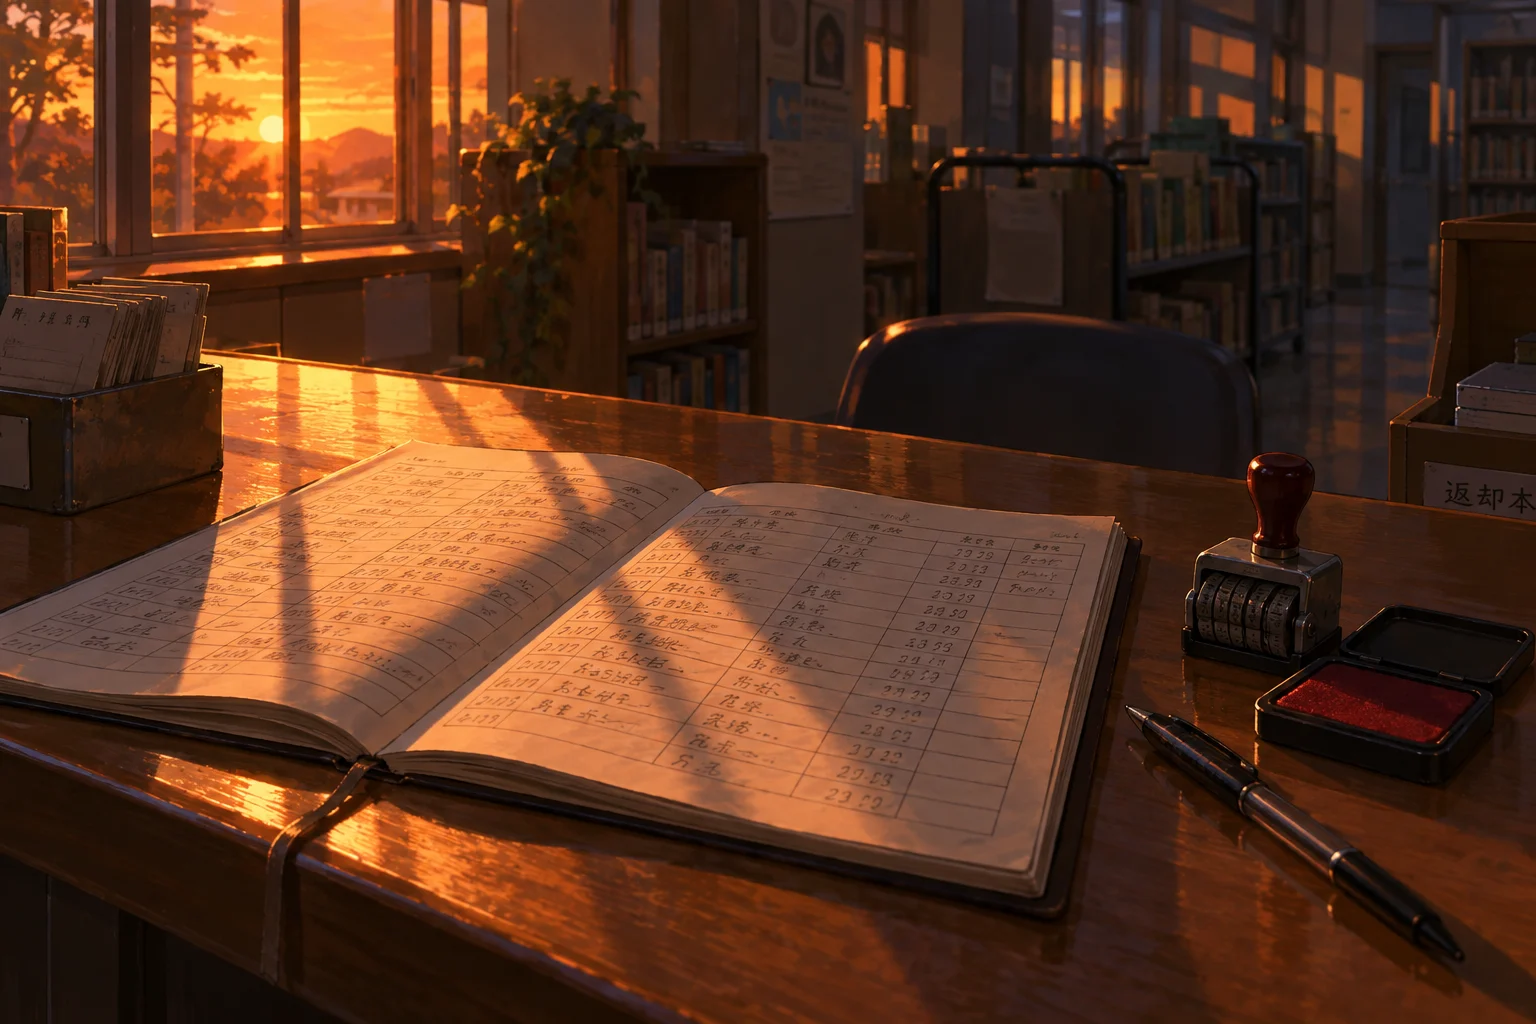
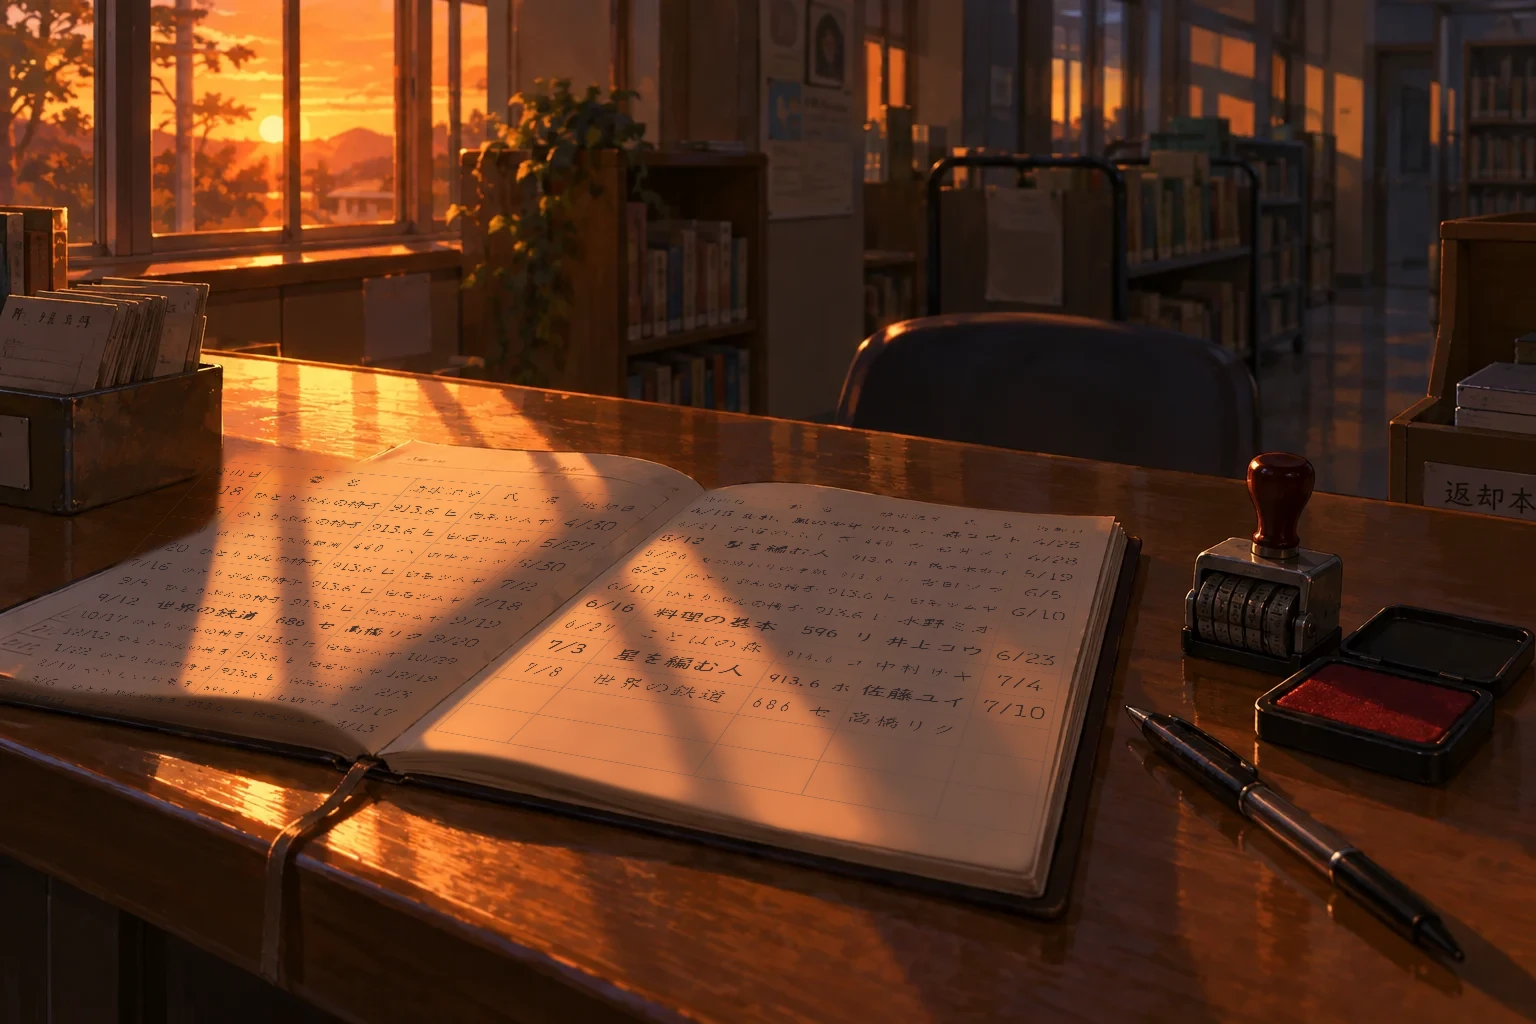
消失のBGMの2周目にオルガン、第三章の探索中の記憶の演出、貸出記録ノートの手書き、わすれものの絵の机まわり、ソウタの表情を直す

diff --git a/index.html b/index.html
@@ -838,6 +838,22 @@
     voice(nf(n), t, dur, vol * 0.6, { attack: 0.07, release: Math.min(0.4, dur * 0.4) });
     breath(t, Math.min(dur, 0.3), vol * 0.2, nf(n) * 3);
   };
+  // 空気の音：帯域を絞ったノイズを、音の長さのあいだ鳴らし続ける（息の混ざったオルガンのパイプの音）
+  function air(t, dur, vol, center) {
+    if (vol <= 0 || !bgmGain) return;
+    const a = audio(), s = a.createBufferSource(), f = a.createBiquadFilter(), g = a.createGain();
+    s.buffer = getNoise(); s.loop = true; f.type = 'bandpass'; f.frequency.value = Math.min(center, 9000); f.Q.value = 3;
+    g.gain.setValueAtTime(0, t); g.gain.linearRampToValueAtTime(vol, t + Math.min(0.8, dur * 0.3));
+    g.gain.setValueAtTime(vol, Math.max(t + 0.81, t + dur - 0.9)); g.gain.linearRampToValueAtTime(0.0001, t + dur);
+    s.connect(f).connect(g).connect(bgmGain); s.start(t); s.stop(t + dur + 0.05);
+  }
+  // オルガン（足踏みオルガンのような、空気の混ざった透き通った音）：ゆっくり立ち上がり、少しずつずれた音を重ねて揺らす
+  const organ = (n, t, dur, vol) => {
+    voice(nf(n), t, dur, vol, { attack: 0.5, release: 0.9, det: [-5, 0, 4], vib: 0.0015, vibRate: 3.2 });
+    voice(nf(n) * 2, t, dur, vol * 0.28, { attack: 0.6, release: 0.9, det: [-3, 3] });
+    voice(nf(n) * 3, t, dur, vol * 0.08, { type: 'triangle', attack: 0.7, release: 0.9, lp: 2400 });
+    air(t, dur, vol * 0.5, nf(n) * 2);
+  };
   // オルゴール：櫛の歯の余韻を長く残して、次の音へ重ねる
   const orgel = (n, t, vol, dur = 3.4) => {
     voice(nf(n), t, dur, vol, { attack: 0.003 }); voice(nf(n) * 1.0025, t, dur * 0.9, vol * 0.35, { attack: 0.003 });
@@ -977,6 +993,9 @@
       const mel = [[[74, 2], [72, 1], [69, 1]], [[70, 3], [69, 1]], [[67, 1], [70, 1], [74, 1], [72, 1]], [[69, 4]],
                    [[77, 2], [76, 1], [74, 1]], [[74, 1], [72, 1], [70, 2]], [[70, 1], [69, 1], [67, 1], [65, 1]], [[73, 2], [69, 2]]][bar];
       contrabass(root - 12, t, q * 4 + 0.3, 0.02);
+      // 2周目から：空気の混ざったオルガンの和音を、後ろで長く鳴らす（確かにそこにいた人がいなくなった、がらんとした響き）
+      if (i >= 8) [[62, 65, 69], [58, 62, 65], [55, 58, 62], [57, 61, 64], [57, 62, 65], [58, 62, 65], [55, 58, 62], [57, 61, 64]][bar]
+        .forEach((n, k) => organ(n, t + k * 0.06, q * 4 + 0.4, k ? 0.007 : 0.009));
       // グロッケン：チャイム（最高音E5）より1オクターブ以上高い音域（F6〜F7）で、16分音符を中心にした細かい旋律を重ねる
       // 和音（Dm・B♭・Gm・A）に沿った旋律。ほんの少しだけ時間を揺らし、2周目はところどころ音が抜ける（こわれやすさ）
       const gl = [[[98, 2], [93, 1], [89, 1], [93, 2], [96, 2], [98, 3], [0, 1], [101, 2], [98, 2]],
@@ -1155,6 +1174,7 @@
     R.ticks++; render();
     if (R.ticks >= CHIME_AT) return chime();
     if (C.onTick) await C.onTick();
+    if (C.onTick2) await C.onTick2();
   }
   // 17:00のチャイム：鳴っている間は夕焼け空の一枚絵に切り替え、明けたら部屋に戻す
   function setCG(on) { $('#scene').classList.toggle('cg', on); }
@@ -2474,7 +2494,7 @@
       }
       if (a === 'oitsu') return doom([['ソウタ', '……じゃあ、どうしろって言うんだよ', 'angrySad'],
                                 ['', 'ソウタの声が、途中でかすれた。握りしめていた手から、ゆっくり力が抜けていく。', 'down'],
-                                ['', 'ソウタは、ピアノ椅子の空いた左側に目をやった。', 'sad'],
+                                ['', 'ソウタは、ピアノ椅子の空いた左側に目をやった。', 'down'],
                                 ['ソウタ', '弾いたって、隣にあいつはいないのに', 'despair']]);
       await say([['ソウタ', '……裏？', 'surprise'],
                  ['ソウタ', '……なんで、お前がそんなこと知ってんだよ', 'angry'],
@@ -2674,6 +2694,27 @@
                  ['スマホが、続けざまに震えている。止まらない。', 'ミオは両手で本を抱きしめて、じっと耐えていた。'],
                  ['震え続けるスマホの画面が、一瞬だけ明るくなった。「あした、たのしみだね」', 'ミオの肩が、小さく跳ねた。']][Math.min(R.loop, 2)]);
     },
+    // 探索の途中、ミオの記憶にまつわる声が聞こえる（スマホのあと。ほどけた後は出ない）
+    // 1回目：本の一場面／2回目：一年のときのツムギとの思い出／3回目以降：中学のときのいじめの記憶
+    async onTick2() {
+      if (R.st !== 'here' || R.seen.has('memory') || !R.seen.has('buzz') || R.ticks < (R.loop ? 5 : 7)) return;
+      R.seen.add('memory'); hideCut();
+      if (R.loop === 0) {
+        await say(['……ぱらり、と、どこかでページをめくる音がした。', '小さな声が、本を読み上げている。',
+                   '『その部屋には、椅子がひとつしかなかった。だから、だれも入ってこなかった』',
+                   '『ある朝、扉の前に、もうひとつ椅子が置いてあった』',
+                   'ミオの指が、本の表紙の上で止まった。']);
+      } else if (R.loop === 1) {
+        await say(['カウンターのほうから、二人分の小さな笑い声が聞こえた気がした。',
+                   '『ね、泣けるでしょ』『……泣いてない』『泣いてるじゃん。はい、ティッシュ』',
+                   '『……また明日も、当番いっしょ？』『うん。また明日』',
+                   'ミオが、誰もいないカウンターを見て、すぐに目を伏せた。']);
+      } else {
+        await say(['……くすくす、と笑う声が、すぐ後ろで聞こえた。', '『ねえ、水野さんの机、どこいったんだろうね』『知らなーい』',
+                   '机を引きずる音。誰も、振り向かない。',
+                   'ミオは本を胸に押しつけて、息を止めていた。肩が、小さく震えている。']);
+      }
+    },
     inv(add) {
       if (R.items.has('draft')) add('図書だよりの下書き', '', viewDraft, 'img/l_item_draft.webp');
     },
@@ -2684,7 +2725,7 @@
         if (!R.know.has('ledger')) {
           await say(['貸出カウンターに、貸出記録のノートが開いたままになっている。',
                      '同じ本の名前が、何度も並んでいる。『ひとりぶんの椅子』　請求記号「913.6 ヒ」',
-                     '借りた人の欄には、ずっと同じ名前。「白石ツムギ」。いちばん新しい白石の行は、返却日が6月10日。',
+                     'ほかの人の記録にまじって、この本の行だけを追うと、借りた人の欄はずっと同じ名前。「白石ツムギ」。いちばん新しい白石の行は、返却日が6月10日。',
                      '……そのすぐ下の一行だけ、借りた人が「水野ミオ」になっている。貸出日も同じ6月10日で、返却日の欄が空いている。']);
           R.know.add('ledger'); await tick();
         } else await say(['貸出記録のノート。『ひとりぶんの椅子』、913.6 ヒ。最後の返却欄だけが空いている。',
